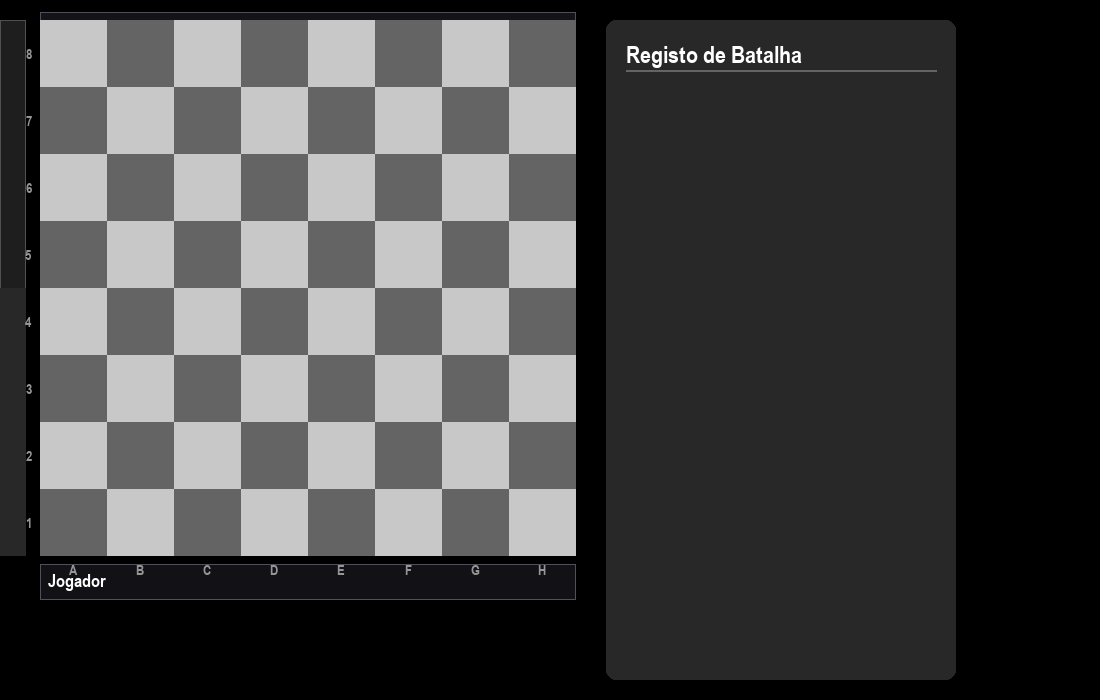
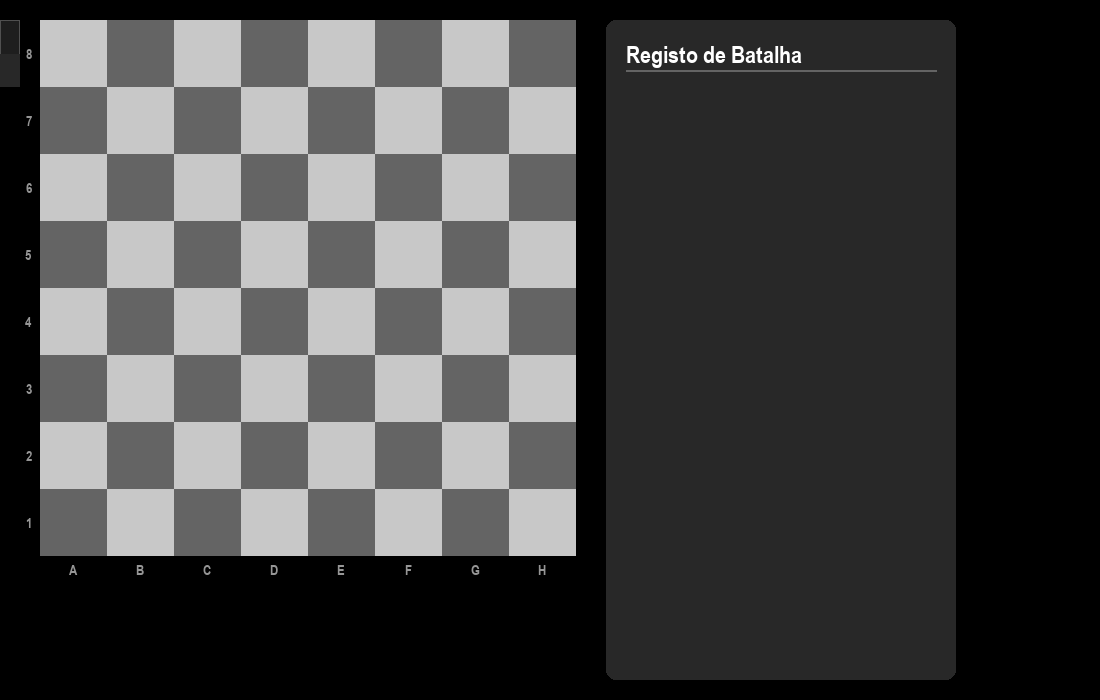
feat: implementacao total de mecanicas hibridas (spells), correcoes ui e data-driven

Changed region(s): [[0.0, 0.03, 0.0309, 0.81], [0.0309, 0.81, 0.0927, 0.84]]

diff --git a/engine/pieces.py b/engine/pieces.py
@@ -66,6 +66,7 @@ class Piece:
     def get_threat_area(self, r, c, board, tile_effects=None) -> list: return []
     def get_valid_stuns(self, r, c, board, tile_effects=None) -> dict: return {}
     def get_valid_spawns(self, r, c, board, tile_effects=None) -> list: return []
+    def get_valid_spells(self, r, c, board, tile_effects=None) -> list: return []
 
 
 # -------------------- BehaviorCompiler ---------------------------------
@@ -333,6 +334,39 @@ class Inquisitor(DataPiece):
     __slots__ = ()
     def __init__(self, team):
         super().__init__(team, 'Inquisitor')
+    
+    def get_aura_positions(self, r, c, board, tile_effects=None):
+        """Return list of enemy positions within the silence aura radius."""
+        if not self.can_act():
+            return []
+        data = HERO_DEFS.get('Inquisitor', {})
+        radius = int(data.get('aura_radius', 2))
+        aoe = []
+        for dr in range(-radius, radius + 1):
+            for dc in range(-radius, radius + 1):
+                if dr == 0 and dc == 0:
+                    continue
+                nr, nc = r + dr, c + dc
+                if 0 <= nr < LINHAS and 0 <= nc < COLUNAS:
+                    if tile_effects and tile_effects[nr][nc] and tile_effects[nr][nc].get('type') == 'ice':
+                        continue
+                    p = board[nr][nc]
+                    if p and p.team != self.team:
+                        aoe.append((nr, nc))
+        return aoe
+
+    def get_valid_spells(self, r, c, board, tile_effects=None):
+        """Return possible silence targets (positions) for the Inquisitor aura."""
+        return self.get_aura_positions(r, c, board, tile_effects)
+
+    def get_threat_area(self, r, c, board, tile_effects=None) -> list:
+        # include normal attack threat area and aura positions as soft-threats
+        threats = super().get_threat_area(r, c, board, tile_effects)
+        aura = self.get_aura_positions(r, c, board, tile_effects)
+        for pos in aura:
+            if pos not in threats:
+                threats.append(pos)
+        return threats
 
 class Berserker(DataPiece):
     __slots__ = ()
@@ -344,36 +378,131 @@ class Pyromancer(DataPiece):
     __slots__ = ()
     def __init__(self, team):
         super().__init__(team, 'Pyromancer')
+
     def get_valid_spells(self, r, c, board, tile_effects=None):
-        return []
+        if not self.can_act():
+            return []
+        targets = []
+        max_range = 3
+        for dr in range(-max_range, max_range + 1):
+            for dc in range(-max_range, max_range + 1):
+                if dr == 0 and dc == 0:
+                    continue
+                nr, nc = r + dr, c + dc
+                if not (0 <= nr < LINHAS and 0 <= nc < COLUNAS):
+                    continue
+                target = board[nr][nc]
+                if target is None or target.team != self.team:
+                    targets.append({"target": (nr, nc), "spell_type": "ignite"})
+        return targets
 
 class Dragoon(DataPiece):
     __slots__ = ()
     def __init__(self, team):
         super().__init__(team, 'Dragoon')
     def get_valid_spells(self, r, c, board, tile_effects=None):
-        return []
+        """Return possible jump/leap landing positions for the Dragoon.
+
+        Simple rule implemented:
+         - can jump over a single obstacle in any of the 8 directions and land
+           two squares away if empty or occupied by an enemy.
+         - additionally can leap up to `jump_max` tiles in a straight line
+           (configurable in `heroes_config.json` under Dragoon.jump_max).
+        """
+        if not self.can_act():
+            return []
+        data = HERO_DEFS.get('Dragoon', {})
+        max_jump = int(data.get('jump_max', 2))
+        lands = []
+        dirs = [(-1,0),(1,0),(0,-1),(0,1),(-1,-1),(-1,1),(1,-1),(1,1)]
+        for dr, dc in dirs:
+            # jump over single obstacle to land two away
+            midr, midc = r + dr, c + dc
+            landr, landc = r + dr*2, c + dc*2
+            if 0 <= midr < LINHAS and 0 <= midc < COLUNAS and 0 <= landr < LINHAS and 0 <= landc < COLUNAS:
+                if board[midr][midc] is not None:
+                    dest = board[landr][landc]
+                    if dest is None or dest.team != self.team:
+                        lands.append((landr, landc))
+            # straight leaps up to max_jump (can pass over empty tiles)
+            for step in range(2, max_jump + 1):
+                nr = r + dr * step
+                nc = c + dc * step
+                if not (0 <= nr < LINHAS and 0 <= nc < COLUNAS):
+                    break
+                if tile_effects and tile_effects[nr][nc] and tile_effects[nr][nc].get('type') == 'ice':
+                    break
+                dest = board[nr][nc]
+                if dest is None:
+                    lands.append((nr, nc))
+                else:
+                    if dest.team != self.team:
+                        lands.append((nr, nc))
+                    break
+        # deduplicate
+        uniq = []
+        for p in lands:
+            if p not in uniq:
+                uniq.append(p)
+        return uniq
 
 class Cleric(DataPiece):
     __slots__ = ()
     def __init__(self, team):
         super().__init__(team, 'Cleric')
+
     def get_valid_spells(self, r, c, board, tile_effects=None):
-        return []
+        if not self.can_act():
+            return []
+        purify_targets = []
+        for dr in range(-2, 3):
+            for dc in range(-2, 3):
+                if dr == 0 and dc == 0:
+                    continue
+                nr, nc = r + dr, c + dc
+                if not (0 <= nr < LINHAS and 0 <= nc < COLUNAS):
+                    continue
+                target = board[nr][nc]
+                if target and target.team == self.team and target.stun_timer > 0:
+                    purify_targets.append({"target": (nr, nc), "spell_type": "purify"})
+        return purify_targets
 
 class Trickster(DataPiece):
     __slots__ = ()
     def __init__(self, team):
         super().__init__(team, 'Trickster')
+
     def get_valid_spells(self, r, c, board, tile_effects=None):
-        return []
+        if not self.can_act():
+            return []
+        swaps = []
+        max_range = 3
+        for dr in range(-max_range, max_range + 1):
+            for dc in range(-max_range, max_range + 1):
+                if dr == 0 and dc == 0:
+                    continue
+                nr, nc = r + dr, c + dc
+                if not (0 <= nr < LINHAS and 0 <= nc < COLUNAS):
+                    continue
+                target = board[nr][nc]
+                if target and target.team == self.team and target is not board[r][c]:
+                    swaps.append({"target": (nr, nc), "spell_type": "swap"})
+        return swaps
 
 class Geomancer(DataPiece):
     __slots__ = ()
     def __init__(self, team):
         super().__init__(team, 'Geomancer')
+
     def get_valid_spells(self, r, c, board, tile_effects=None):
-        return []
+        if not self.can_act():
+            return []
+        walls = []
+        for dr, dc in [(-1,0),(1,0),(0,-1),(0,1),(-1,-1),(-1,1),(1,-1),(1,1)]:
+            nr, nc = r + dr, c + dc
+            if 0 <= nr < LINHAS and 0 <= nc < COLUNAS and board[nr][nc] is None:
+                walls.append({"target": (nr, nc), "spell_type": "barricade"})
+        return walls
 
 # Keep FrostMage and Lich special methods
 class FrostMage(DataPiece):
@@ -426,10 +555,20 @@ class Lich(DataPiece):
         return spawns
 
 
+class Phantom(DataPiece):
+    __slots__ = ()
+    def __init__(self, team):
+        super().__init__(team, 'Phantom')
+
+class Sentry(DataPiece):
+    __slots__ = ()
+    def __init__(self, team):
+        super().__init__(team, 'Sentry')
+
+
 TODAS_AS_PECAS = [
     Bone, Ghoul, Obelisk, BoneLord,
-    Phantom := type('Phantom', (DataPiece,), {'__slots__': (), '__init__': lambda self, team: DataPiece.__init__(self, team, 'Phantom')}),
-    Sentry := type('Sentry', (DataPiece,), {'__slots__': (), '__init__': lambda self, team: DataPiece.__init__(self, team, 'Sentry')}),
+    Phantom, Sentry,
     FrostMage, Lich,
     Ranger, Nightshade, Templar, StoneWall, Inquisitor, Berserker,
     Pyromancer, Dragoon, Cleric, Trickster, Geomancer

diff --git a/engine/game_state.py b/engine/game_state.py
@@ -104,9 +104,9 @@ class GameState:
                     novo_gs.board[r][c] = nova_peca
                 ef = novo_gs.tile_effects[r][c]
                 if ef: novo_gs.tile_effects[r][c] = ef.copy()
-            # snapshots should not carry evaluator cache
-            novo_gs.current_score = None
-            return novo_gs
+        # snapshots should not carry evaluator cache
+        novo_gs.current_score = None
+        return novo_gs
 
     # =====================================================================
     # MAKE / UNMAKE CORE (Alta Performance para Pesquisa da IA)
@@ -131,7 +131,11 @@ class GameState:
                 if p:
                     undo["pieces"].append((p, p.stun_timer, getattr(p, 'lifespan', None), getattr(p, 'spawn_cooldown', 0)))
 
-        self.make_action(acao["start"], acao["end"], acao["type"], acao.get("area"), acao.get("spawn_name"), is_simulation=True)
+        self.make_action(
+            acao["start"], acao["end"], acao["type"],
+            acao.get("area"), acao.get("spawn_name"), acao.get("spell_name"),
+            is_simulation=True
+        )
         return undo
 
     def unmake_simulation_action(self, undo):
@@ -195,7 +199,7 @@ class GameState:
     # =====================================================================
     # NÚCLEO TÁTICO
     # =====================================================================
-    def make_action(self, start_pos, end_pos, action_type="move", affected_area=None, spawn_name=None, is_simulation=False):
+    def make_action(self, start_pos, end_pos, action_type="move", affected_area=None, spawn_name=None, spell_name=None, is_simulation=False):
         if self.game_over: return
         if not self._hash_valid: self.compute_initial_hash()
 
@@ -205,7 +209,7 @@ class GameState:
         captured_something = False
 
         if not is_simulation:
-            self.gerar_notacao(piece, start_pos, end_pos, action_type, spawn_name)
+            self.gerar_notacao(piece, start_pos, end_pos, action_type, spawn_name, spell_name)
             
         self.last_move = {"start": start_pos, "end": end_pos}
 
@@ -231,6 +235,28 @@ class GameState:
             piece.stun_timer = 1 
             self.add_piece_hash(start_row, start_col, piece)
             if hasattr(piece, 'spawn_cooldown'): piece.spawn_cooldown = 4 
+        elif action_type == "spell" and spell_name and piece:
+            if spell_name == "ignite":
+                self.tile_effects[end_row][end_col] = {"type": "fire", "timer": 3, "team": piece.team}
+            elif spell_name == "purify":
+                alvo = self.board[end_row][end_col]
+                if alvo and alvo.team == piece.team:
+                    self.remove_piece_hash(end_row, end_col)
+                    alvo.stun_timer = 0
+                    self.add_piece_hash(end_row, end_col, alvo)
+            elif spell_name == "swap":
+                alvo = self.board[end_row][end_col]
+                if alvo and alvo.team == piece.team and alvo is not piece:
+                    self.remove_piece_hash(start_row, start_col)
+                    self.remove_piece_hash(end_row, end_col)
+                    self.board[start_row][start_col], self.board[end_row][end_col] = alvo, piece
+                    self.add_piece_hash(start_row, start_col, self.board[start_row][start_col])
+                    self.add_piece_hash(end_row, end_col, self.board[end_row][end_col])
+            elif spell_name == "barricade":
+                from engine.pieces import StoneWall
+                barr = StoneWall(piece.team)
+                self.board[end_row][end_col] = barr
+                self.add_piece_hash(end_row, end_col, barr)
         elif action_type == "move":
             self.remove_piece_hash(start_row, start_col)
             self.board[start_row][start_col] = None
@@ -302,7 +328,7 @@ class GameState:
                     if ef["timer"] <= 0:
                         self.tile_effects[r][c] = None
 
-    def gerar_notacao(self, piece, start_pos, end_pos, action_type, spawn_name):
+    def gerar_notacao(self, piece, start_pos, end_pos, action_type, spawn_name=None, spell_name=None, affected_area=None):
         sr, sc = start_pos
         er, ec = end_pos
         s_alg = coords_para_notacao(sr, sc)
@@ -315,15 +341,24 @@ class GameState:
         elif action_type == "attack": short = f"{piece.acronym} {s_alg}x{e_alg}"
         elif action_type == "stun": short = f"{piece.acronym} * {e_alg}"
         elif action_type == "spawn": short = f"{piece.acronym} + {spawn_name[:2]} {e_alg}"
+        elif action_type == "spell" and spell_name:
+            short = f"{piece.acronym} {spell_name.upper()} {e_alg}"
         else: short = "?"
             
         estado_congelado = self.fast_clone()
         
         self.move_log.append({
-            "short": prefixo + short, 
-            "team": piece.team, 
+            "short": prefixo + short,
+            "team": piece.team,
             "estado_anterior": estado_congelado,
-            "acao_escolhida": {"start": start_pos, "end": end_pos, "type": action_type}
+            "acao_escolhida": {
+                "start": start_pos,
+                "end": end_pos,
+                "type": action_type,
+                "spell_name": spell_name,
+                "spawn_name": spawn_name,
+                "area": affected_area
+            }
         })
 
     def check_game_over(self):

diff --git a/fetch_icons.py b/fetch_icons.py
@@ -1,0 +1,52 @@
+"""
+Simple script to fetch hero icons from a configurable base URL into `ui/assets/`.
+Usage:
+    python fetch_icons.py --base https://example.com/hero-icons --out ui/assets/icons
+If no base is provided, it will try `https://example.com/hero-icons` as placeholder.
+
+This script avoids external dependencies by using urllib.
+"""
+import os
+import json
+import argparse
+from urllib.parse import quote_plus
+from urllib.request import urlopen, Request
+from urllib.error import URLError, HTTPError
+
+ROOT = os.path.dirname(os.path.abspath(__file__))
+HERO_FILE = os.path.join(ROOT, 'engine', 'heroes_config.json')
+
+
+def main(base_url, out_dir):
+    if not os.path.exists(HERO_FILE):
+        print(f"heroes file not found: {HERO_FILE}")
+        return
+    os.makedirs(out_dir, exist_ok=True)
+    with open(HERO_FILE, 'r', encoding='utf-8') as f:
+        data = json.load(f)
+    summary = []
+    for name in data.keys():
+        filename = f"{name.lower().replace(' ', '_')}.png"
+        encoded_name = quote_plus(name)
+        url = f"{base_url.rstrip('&')}&name={encoded_name}&background=random&color=fff&size=128&font-size=0.4"
+        dest = os.path.join(out_dir, filename)
+        try:
+            req = Request(url, headers={'User-Agent': 'RedWar-Fetcher/1.0'})
+            with urlopen(req, timeout=10) as resp, open(dest, 'wb') as out:
+                out.write(resp.read())
+            summary.append((name, True, dest))
+            print(f"Fetched {name} -> {dest}")
+        except (HTTPError, URLError) as e:
+            summary.append((name, False, str(e)))
+            print(f"Failed {name}: {e}")
+    print('\nSummary:')
+    for name, ok, info in summary:
+        print(f"- {name}: {'OK' if ok else 'ERR'} -> {info}")
+
+
+if __name__ == '__main__':
+    p = argparse.ArgumentParser()
+    p.add_argument('--base', default='https://ui-avatars.com/api/?', help='Base URL for avatars API')
+    p.add_argument('--out', default=os.path.join('ui','assets'), help='Output directory')
+    args = p.parse_args()
+    main(args.base, args.out)
